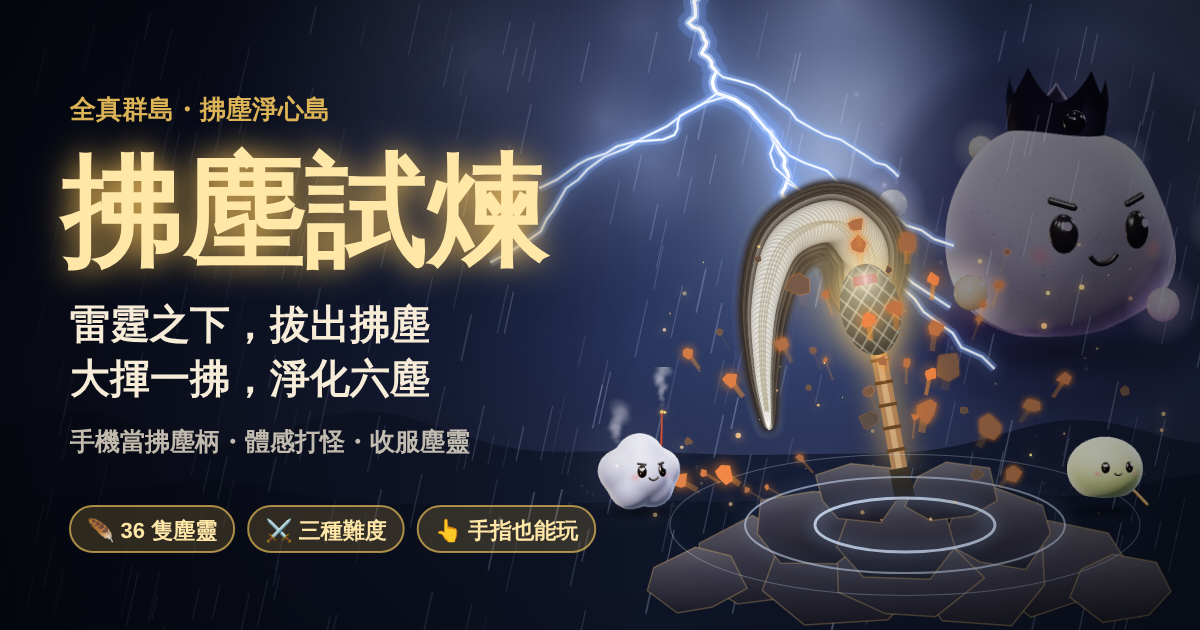
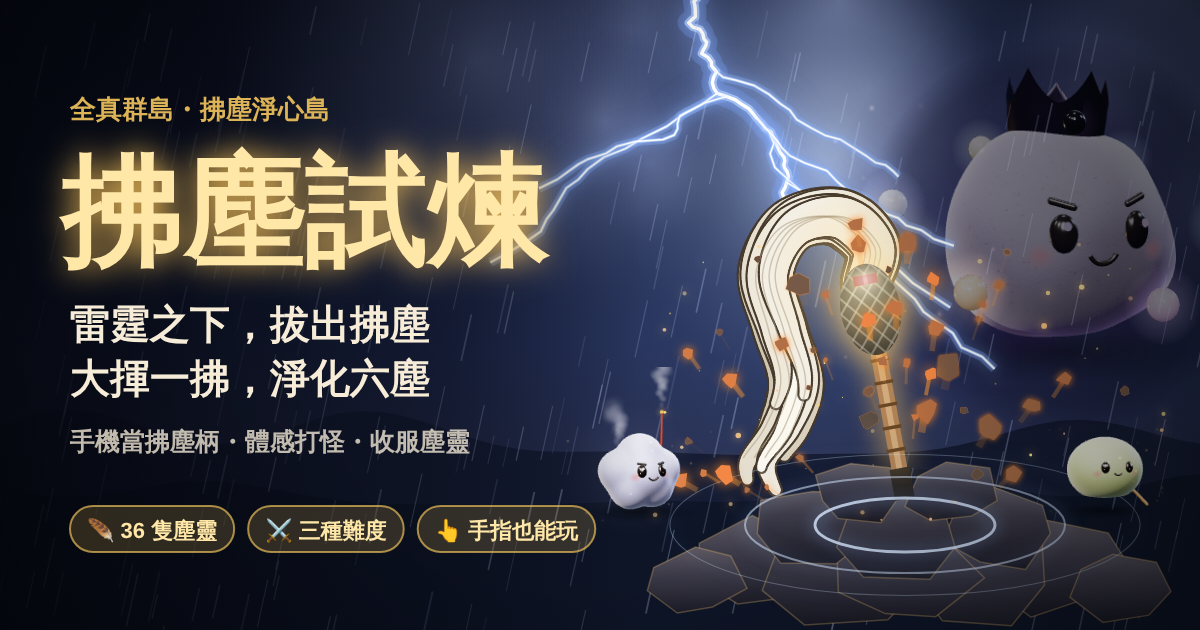
群島 v261111.04：預覽圖馬尾改 S 形曲線
Claude-Session: https://claude.ai/code/session_01CYjxtAJEbe8aNJZsdY8jB5

Changed region(s): [[0.6167, 0.2714, 0.7708, 0.7841], [0.4933, 0.6333, 0.5242, 0.6937]]

diff --git a/islands/fuchen-game/index.html b/islands/fuchen-game/index.html
@@ -19,8 +19,8 @@
 <meta property="og:title" content="大揮一拂，淨化六塵｜拂塵試煉・全真群島">
 <meta property="og:description" content="手機就是拂塵柄：看清符印、聽到「揮」就整隻手臂大揮一拂，把六塵的塵靈淨化、收進淨心錄。三種難度，沒有動作感測也能用手指畫。">
 <meta property="og:url" content="https://steven4dev.github.io/yiguandao-2027-course/islands/fuchen-game/">
-<meta property="og:image" content="https://steven4dev.github.io/yiguandao-2027-course/islands/fuchen-game/og-fuchen.png?v=4">
-<meta property="og:image:secure_url" content="https://steven4dev.github.io/yiguandao-2027-course/islands/fuchen-game/og-fuchen.png?v=4">
+<meta property="og:image" content="https://steven4dev.github.io/yiguandao-2027-course/islands/fuchen-game/og-fuchen.png?v=5">
+<meta property="og:image:secure_url" content="https://steven4dev.github.io/yiguandao-2027-course/islands/fuchen-game/og-fuchen.png?v=5">
 <meta property="og:image:type" content="image/png">
 <meta property="og:image:width" content="1200">
 <meta property="og:image:height" content="630">
@@ -255,7 +255,7 @@ body[data-phase="count"] .hud,body[data-phase="count"] .bottom{opacity:.3}
 
 <script>
 'use strict';
-const VERSION = 'v261111.02';
+const VERSION = 'v261111.03';
 const D2R = Math.PI / 180, R2D = 180 / Math.PI;
 const $ = s => document.querySelector(s);
 $('#ver').textContent = '拂塵試煉 ' + VERSION;

diff --git a/islands/index.html b/islands/index.html
@@ -696,7 +696,7 @@ body.fcT-hide .card,body.fcT-hide .dock,body.fcT-hide #navPop,body.fcT-hide .tag
   <p class="count hits-count" id="hitsLine">👣 已經有 <img id="hitsImg" alt="累計造訪人次" height="18" src="https://hits.sh/steven4dev.github.io/yiguandao-2027-course/islands.svg?style=flat-square&amp;label=%E4%BA%BA%E6%AC%A1&amp;color=d9a43a&amp;labelColor=3a3f5a" onerror="this.parentNode.hidden = true"> 來逛過群島</p>
   <div class="boards"><a class="board" href="https://forms.gle/PG7yAsyz1r4unXXZ8" target="_blank" rel="noopener">🛶 我要登島</a><button class="board board-visit" id="visitBtn" type="button">👀 我要觀摩</button></div>
   <span class="status" id="status" data-state="backup" role="button" tabindex="0" title="點一下重新讀取"><i></i><span id="statusText">讀取資料中…</span></span>
-  <span class="ver">v261111.03</span>
+  <span class="ver">v261111.04</span>
   </div></div>
 </div>
 

diff --git a/islands/CHANGELOG.md b/islands/CHANGELOG.md
@@ -3,6 +3,9 @@
 網頁左上角品牌卡最下面的淡色小字就是版本編號，格式跟褪下仙衣一樣是 `v年月日.當天第幾版`，例如 `v261025.01` 代表 2026/10/25 的第 1 版。
 打開網頁看到的編號和這裡最上面的一筆相同，就代表已經更新成功；如果還是舊編號，等幾分鐘再重新整理。
 
+## v261111.04
+- 🖼 預覽圖的白馬尾改成帶 S 形的曲線：從綁繩頂端拱起、往左探出，再內收、末端又往外甩，並散成幾束長短不一的毛（之前像一把彎刀）。預覽圖網址 `?v=` 加到 5。
+
 ## v261111.03
 - 🖼 拂塵試煉分享預覽圖修正：預覽圖裡的拂塵改成跟島上地標一樣的樣子——黑握把、竹節木柄、金套環、黑色菱格網罩的蛋形頭、紅綁繩，加上從頂端拱起再往左垂下的一大把白馬尾（之前畫得像蒲公英）。預覽圖網址 `?v=` 加到 4。
 
